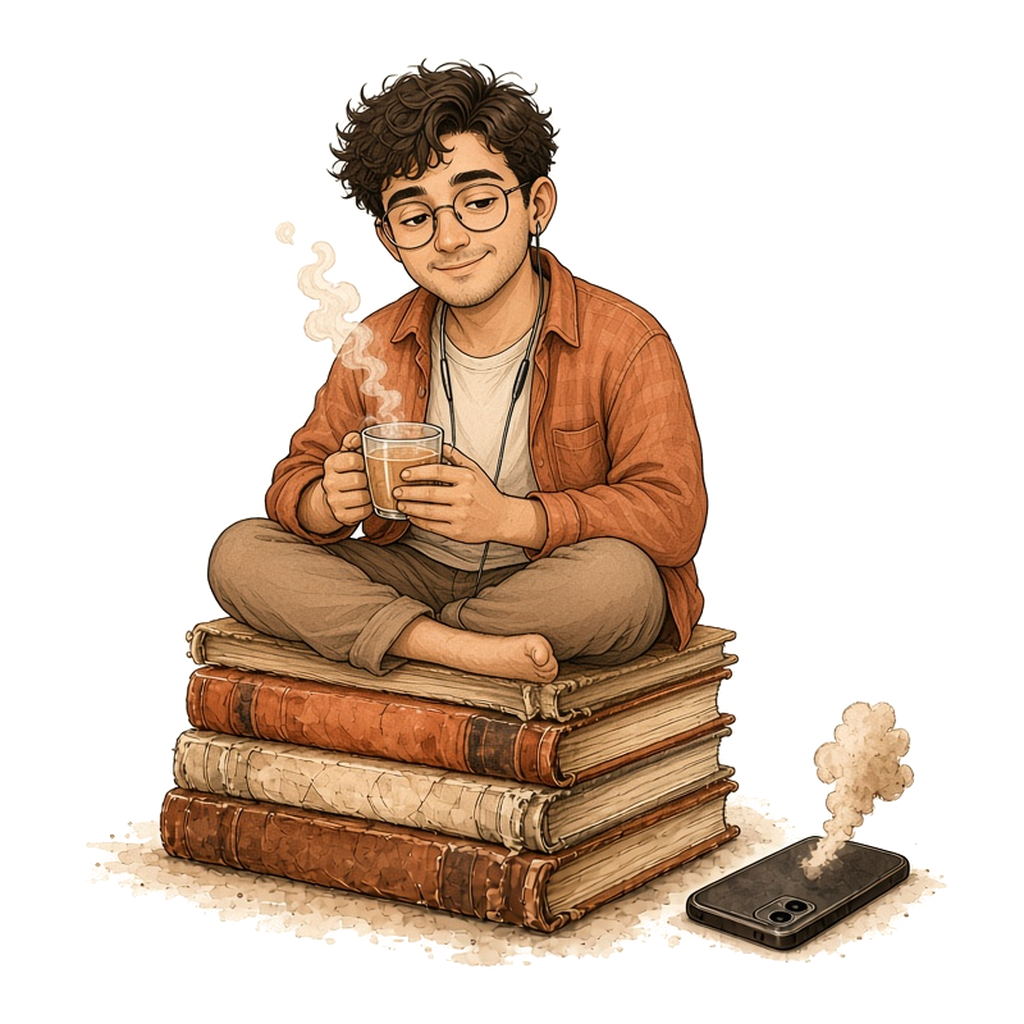
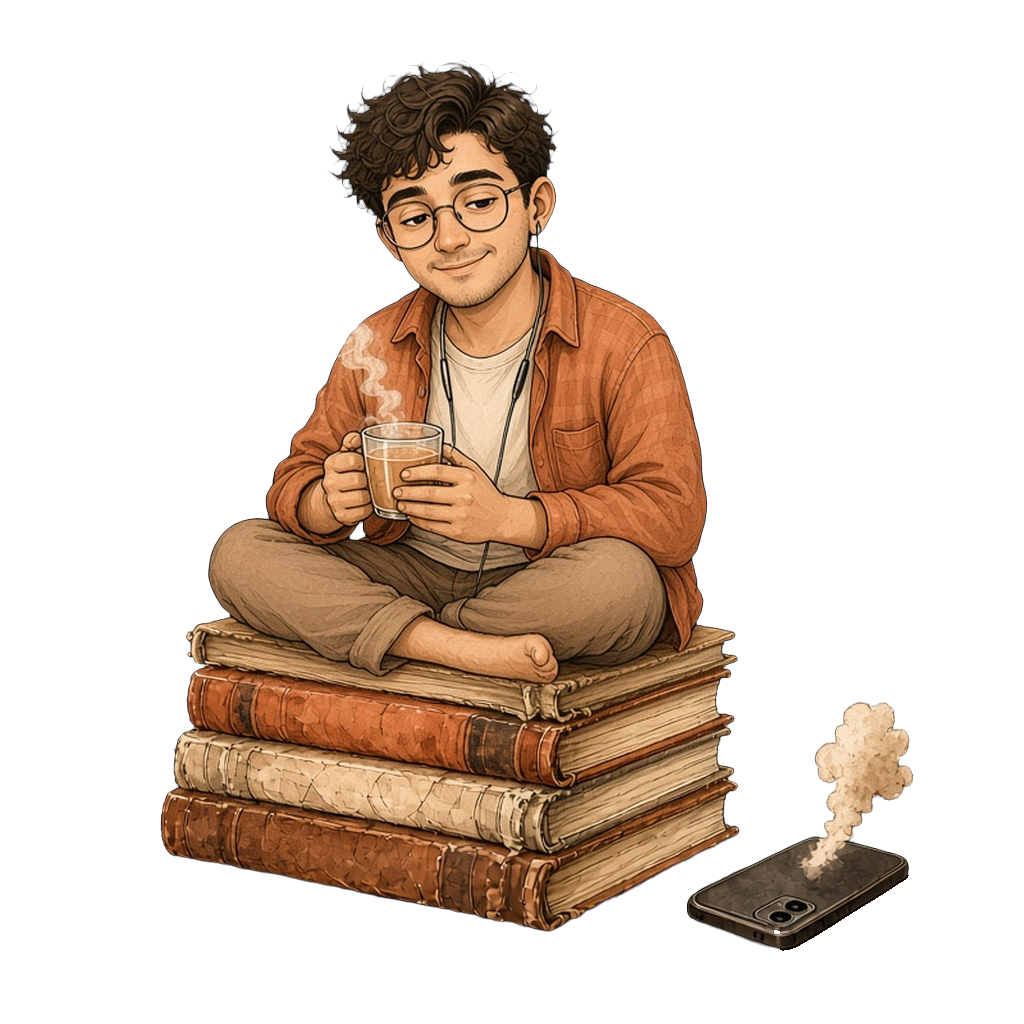
Clean Mr. Poppin matte, dedupe sign-in, darken chat scrollbar
Rebuild the transparent full-figure PNG with rembg + defringe and
floor-dust clearance so cream halo/patches don’t glow in dark mode.
Show the free-limit sign-in panel once (composer gate only). Style
the chat thread scrollbar for dark/light themes.

diff --git a/app/talk-to-mr-poppin/TalkToMrPoppinClient.tsx b/app/talk-to-mr-poppin/TalkToMrPoppinClient.tsx
@@ -604,7 +604,7 @@ export default function TalkToMrPoppinClient({ starters, configured, initialProv
               </button>
             </div>
 
-            <div className="space-y-3 sm:space-y-4 flex-1 min-h-0 overflow-y-auto overscroll-contain pr-1">
+            <div className="chat-scroll space-y-3 sm:space-y-4 flex-1 min-h-0 overflow-y-auto overscroll-contain pr-1">
               {messages.map((message, index) => (
                 <div
                   key={`${message.role}-${index}`}
@@ -627,9 +627,6 @@ export default function TalkToMrPoppinClient({ starters, configured, initialProv
                   )}
                   {message.role === "assistant" && message.sources && message.sources.length > 0 && (
                     <SourceList sources={message.sources} />
-                  )}
-                  {message.role === "assistant" && message.showSignIn && !signedIn && (
-                    <SignInPanel providers={providers} />
                   )}
                 </div>
               ))}

diff --git a/app/globals.css b/app/globals.css
@@ -156,3 +156,24 @@ body {
 @media (prefers-reduced-motion: reduce) {
   .theme-toggle-icon.is-spinning { animation: none; }
 }
+
+/* Chat thread scrollbar — muted in both themes (no bright white track) */
+.chat-scroll {
+  scrollbar-width: thin;
+  scrollbar-color: color-mix(in srgb, var(--tx-dim) 55%, transparent) transparent;
+}
+.chat-scroll::-webkit-scrollbar {
+  width: 8px;
+}
+.chat-scroll::-webkit-scrollbar-track {
+  background: transparent;
+}
+.chat-scroll::-webkit-scrollbar-thumb {
+  background-color: color-mix(in srgb, var(--tx-dim) 55%, transparent);
+  border-radius: 999px;
+  border: 2px solid transparent;
+  background-clip: padding-box;
+}
+.chat-scroll::-webkit-scrollbar-thumb:hover {
+  background-color: color-mix(in srgb, var(--tx-muted) 70%, transparent);
+}
